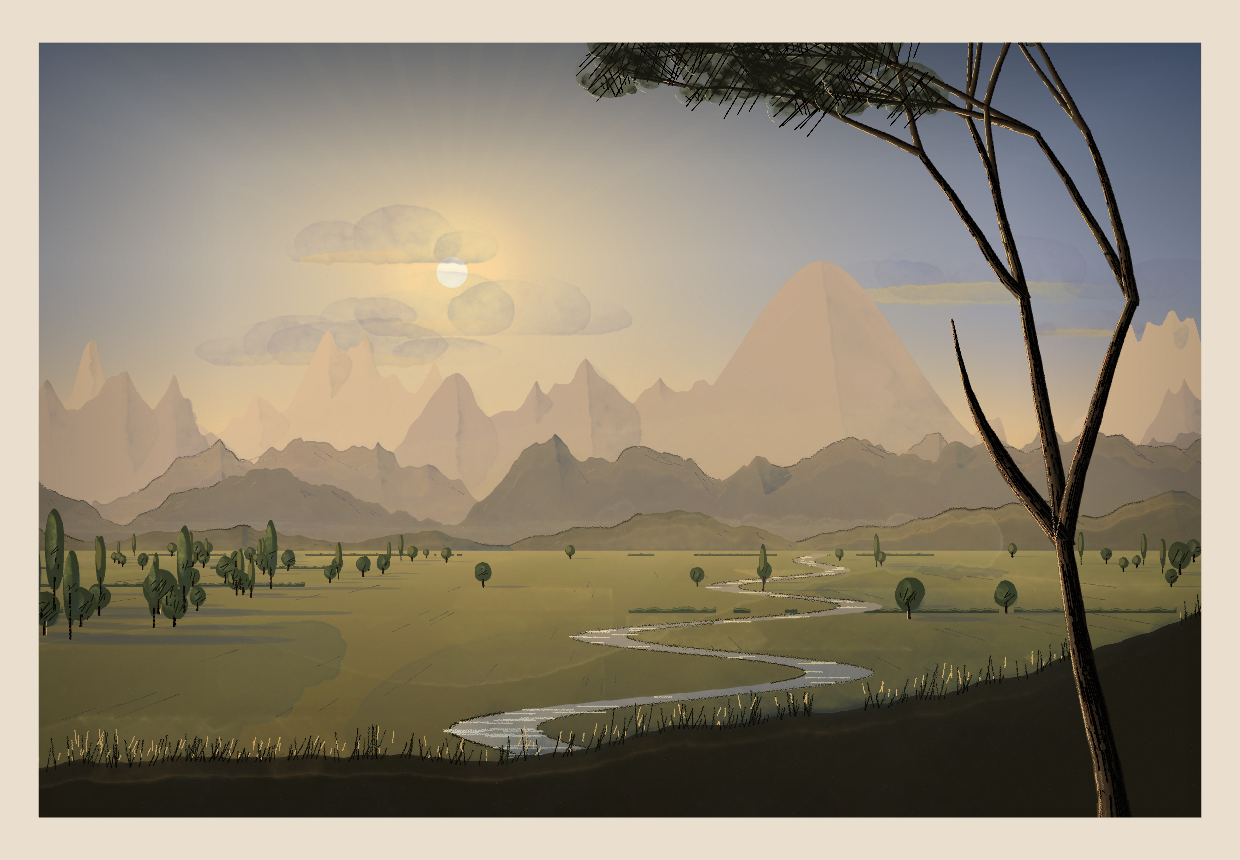
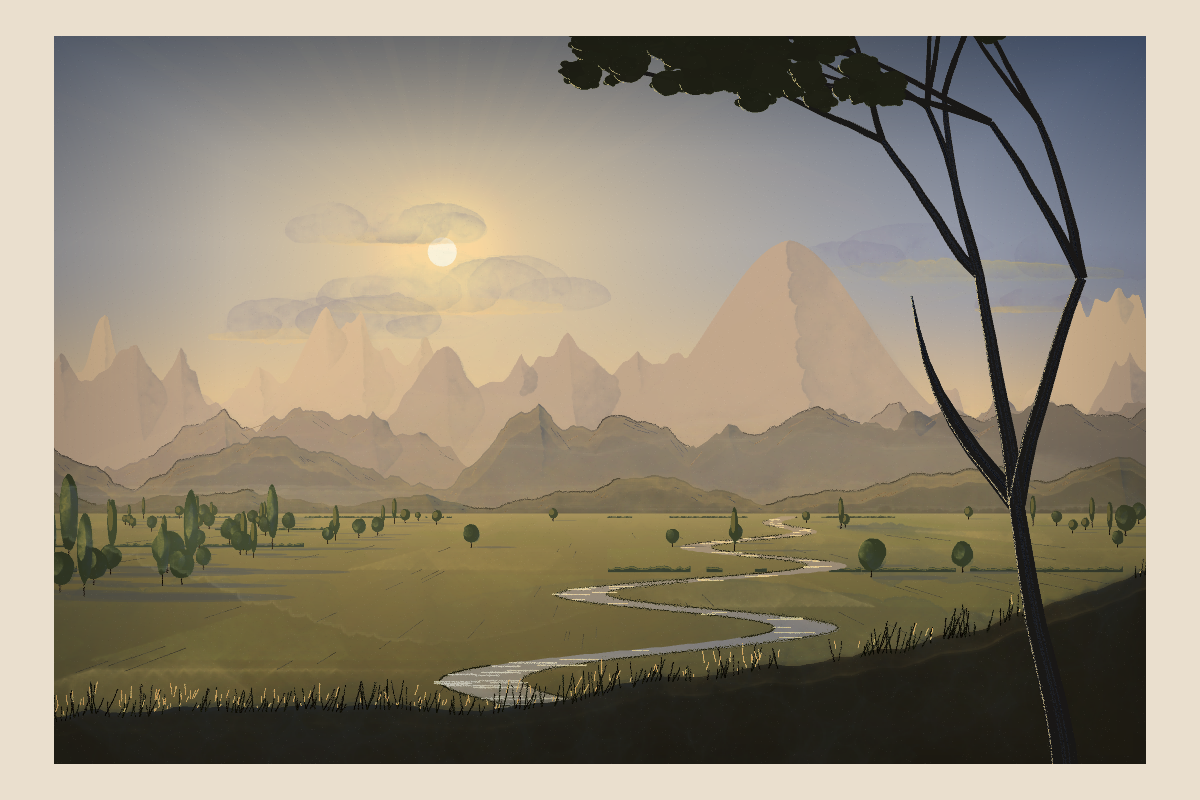
036-aerial-recession: watercolour trees as washes by default
The watercolour that sat under the oil read better than the watercolour
medium itself. The difference was the trees: the medium drew them with
charcoal bark and ink hatching, while the underpainting laid them in as
transparent washes in the same language as the sky and ranges.

- new Scene option "watercolour trees": wash (default) or drawn
- wash: framing tree as one dark limb wash plus 2B bark strokes, canopy
  as bleeding wash clumps, warm rim on outer sun-facing edges; midground
  trees stay as their layered washes
- drawn: the previous charcoal / hatch treatment, unchanged
- seed 7 renders in 376 s in software GL against more than 666 s before
- README and preview-watercolour.png updated; cache-bust sketch.js?v=3

Claude-Session: https://claude.ai/code/session_014i1Png3Yc4yMk8wK1WReT7

diff --git a/projects/036-aerial-recession/sketch.js b/projects/036-aerial-recession/sketch.js
@@ -90,6 +90,7 @@ function setup() {
     closedGroups: [BR, DI, IM, CO, TR],
     params: {
       medium: { value: 1, options: { watercolour: 0, oil: 1 }, label: 'medium', group: SC },
+      wcTrees: { value: 0, options: { 'wash (clean)': 0, 'drawn (charcoal + hatch)': 1 }, label: 'watercolour trees', group: SC },
       mood: { value: 0, options: { 'golden hour': 0, 'after the storm': 1, 'dawn mist': 2 }, label: 'mood', group: SC },
       sun: { value: 0.35, min: 0, max: 1, step: 0.01, label: 'sun height', group: SC },
       haze: { value: 1.0, min: 0.3, max: 2.2, step: 0.05, label: 'atmosphere', group: SC },
@@ -796,7 +797,10 @@ function buildTasks(s) {
   }
   // watercolour: the larger midground trees get the charcoal / hatch language in place,
   // before the foreground goes on (in oil they are restated after the oil passes)
-  if (G.param('medium') === 0) T.push(() => paintMidTreesBrush(s));
+  // watercolour, drawn style: the larger midground trees get the charcoal / hatch language
+  // (the default wash style leaves them as the layered washes above)
+  const drawn = G.param('medium') === 0 && G.param('wcTrees') === 1;
+  if (drawn) T.push(() => paintMidTreesBrush(s));
   T.push(() => paintLightVeil(s));
   T.push(() => paintBank(s));
   T.push(() => paintGrass(s, 0));
@@ -805,9 +809,19 @@ function buildTasks(s) {
     // in oil the underpainting has no framing tree at all: the oil passes paint clean sky
     // behind it, and the tree goes on last, painted (a tree in the underpainting would be
     // sampled into the sky strokes as dark ghosts beside the oil tree)
-    if (G.param('medium') === 0) {
+    if (drawn) {
       for (const t of treeBrushTasks(s)) T.push(t);
       T.push(() => paintCanopyBrush(s));
+      T.push(() => paintRim(s));
+    } else if (G.param('medium') === 0) {
+      // wash style: the tree is laid in the way the sky and ranges are, as transparent
+      // washes over one dark silhouette tone, plus a warm rim where it faces the sun
+      T.push(() => paintTrunk(s));
+      const L = s.repoussoir.leaves;
+      for (let i = 0; i < L.length; i += 25) {
+        const chunk = L.slice(i, i + 25);
+        T.push(() => chunk.forEach((lf) => paintLeafClump(s, lf)));
+      }
       T.push(() => paintRim(s));
     }
   }
@@ -1459,6 +1473,65 @@ function paintGrass(s, pass) {
       const ty = by + Math.sin(ang) * len * 0.6 + 6;
       brush.line(X(tx + s.sunSide * 0.8), Y(ty), X(x1 + s.sunSide * 0.8), Y(y1));
     }
+  }
+}
+
+function paintTrunk(s) {
+  const C = s.C;
+  const rp = s.repoussoir;
+  const dark = mixRGB(C.silhouette, C.shadow, 0.12);
+  const segs = rp.segs.slice().sort((a, b) => b.pts[0][2] - a.pts[0][2]);
+  for (const seg of segs) {
+    if (seg.pts[0][2] >= 2.5) {
+      const left = [];
+      const right = [];
+      for (let k = 0; k < seg.pts.length; k++) {
+        const p = seg.pts[k];
+        const q = seg.pts[Math.min(k + 1, seg.pts.length - 1)];
+        const o = seg.pts[Math.max(k - 1, 0)];
+        const dx = q[0] - o[0];
+        const dy = q[1] - o[1];
+        const d = Math.hypot(dx, dy) || 1;
+        const hw = Math.max(0.6, p[2] * 0.5);
+        left.push([p[0] - (dy / d) * hw, p[1] + (dx / d) * hw]);
+        right.push([p[0] + (dy / d) * hw, p[1] - (dx / d) * hw]);
+      }
+      brush.noStroke();
+      brush.wash(toHex(dark), 255);
+      bpoly(left.concat(right.slice().reverse()));
+      brush.noWash();
+      if (seg.pts[0][2] > 12) {
+        // bark: a few long strokes along the limb
+        for (let k = 0; k < 3; k++) {
+          const off = random(-0.3, 0.3);
+          const line = seg.pts.map((p) => [X(p[0] + off * p[2]), Y(p[1]), 0.6]);
+          brush.set('2B', toHex(mixRGB(dark, C.shadow, 0.35)), 0.7);
+          brush.spline(line, 0.5);
+        }
+      }
+    } else {
+      brush.set('2B', toHex(dark), 1);
+      const line = seg.pts.map((p) => [X(p[0]), Y(p[1]), Math.max(0.3, Math.min(1.4, p[2] / 2))]);
+      brush.strokeWeight(Math.max(0.5, seg.pts[0][2] * 0.45));
+      brush.spline(line, 0.5);
+    }
+  }
+}
+
+function paintLeafClump(s, lf) {
+  const C = s.C;
+  const col = mixRGB(C.silhouette, C.foliage, 0.3 + 0.2 * noise(lf.ph));
+  brush.noStroke();
+  brush.wash(toHex(col), 235);
+  bpoly(treeBlob(lf.x, lf.y, lf.r, lf.r * 0.78, lf.ph, 18));
+  brush.noWash();
+  // Leaf texture at the edge: a few dabs breaking the outline.
+  for (let k = 0; k < 4; k++) {
+    const a = random(TWO_PI);
+    const rr = lf.r * random(0.25, 0.45);
+    brush.wash(toHex(col), 220);
+    bpoly(treeBlob(lf.x + Math.cos(a) * lf.r * 0.95, lf.y + Math.sin(a) * lf.r * 0.75, rr, rr * 0.8, lf.ph + k * 3, 10));
+    brush.noWash();
   }
 }
 

diff --git a/projects/036-aerial-recession/index.html b/projects/036-aerial-recession/index.html
@@ -22,6 +22,6 @@
 </head>
 <body>
   <a class="back" href="../../">← gallery</a>
-  <script src="sketch.js?v=2"></script>
+  <script src="sketch.js?v=3"></script>
 </body>
 </html>

diff --git a/projects/036-aerial-recession/README.md b/projects/036-aerial-recession/README.md
@@ -157,14 +157,21 @@ has no outline at all —
 
 In oil the underpainting carries no framing tree at all, so the oil passes paint clean sky
 behind it (a tree in the underpainting was being sampled into the sky strokes as dark
-ghosts beside the oil tree). The ink hatching stays in the watercolour medium, where pen-and-wash belongs; in oil it
-read as digital. **Watercolour** (`treeBrushTasks`, one pass per limb): the same marks in p5.brush — tone
+ghosts beside the oil tree).
+
+**Watercolour** has two tree styles (*Scene → watercolour trees*). **Wash (default)**: the
+tree is laid in like everything else in the watercolour pipeline — limbs as one dark
+transparent wash, a few 2B bark strokes on the thick limbs, the canopy as bleeding wash
+clumps with broken edges, and a warm rim on outer edges facing the sun; the midground trees
+stay as their layered washes. This is the version that sat under the oil and read better
+than the drawn one: one medium, one language, no line work fighting the washes. It also
+paints in under half the time (seed 7, software GL: 376 s; drawn style unfinished at 666 s). **Drawn** (`treeBrushTasks`, one pass per limb): the same marks in p5.brush — tone
 bands as plain fills (hundreds of bleeding p5.brush polygons per tree were far too slow), grooves in the bark brush (charcoal by default), tapered darks and
 edges in 2B with pointed pressure, light in coloured pencil.
 
 The canopy stays abstract: tip clumps gathered into masses, each a bleeding watercolour
 fill on a curved organic outline, a darker core away from the sun, a lighter fill toward
-it, and ink hatching (cross-hatched in the shadowed core) — p5.brush in both media.
+it, and ink hatching (cross-hatched in the shadowed core) — drawn watercolour style only.
 
 p5.brush stroke widths are calibrated, not nominal: each brush was measured at scale 1
 (visible pixels per unit of weight: charcoal 3.1, crayon 3.2, 2B 1.4, cpencil 1.2, pastel
@@ -215,6 +222,7 @@ back, or reset the stroke settings to their defaults while keeping the scene. A
 | folder | parameter | effect |
 |---|---|---|
 | Scene | medium | oil (default) or watercolour |
+| | watercolour trees | wash (default): trees as transparent washes · drawn: charcoal bark and ink-hatched canopies |
 | | mood | golden hour · after the storm · dawn mist |
 | | sun height | sun elevation; lower = warmer glow, longer shadows |
 | | atmosphere | `k` in the transmittance term — how fast distance dissolves into haze |
